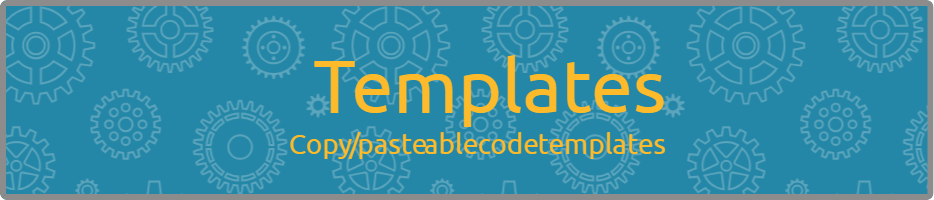
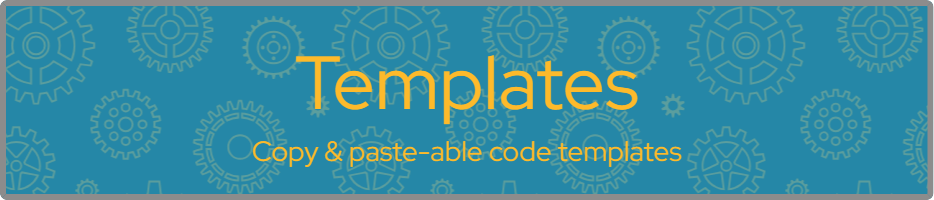
fix(repo-img): Change font in README header image

diff --git a/README.md b/README.md
@@ -4,7 +4,7 @@
 <p align="center">
   <picture>
     <source media="(prefers-color-scheme: dark)" srcset="./static/img/github-header-image.png">
-    <img src="./static/img/github-header-image.png" height="200">
+    <img src="./static/img/github-header-image.png" height="100">
   </picture>
 </p>
 
